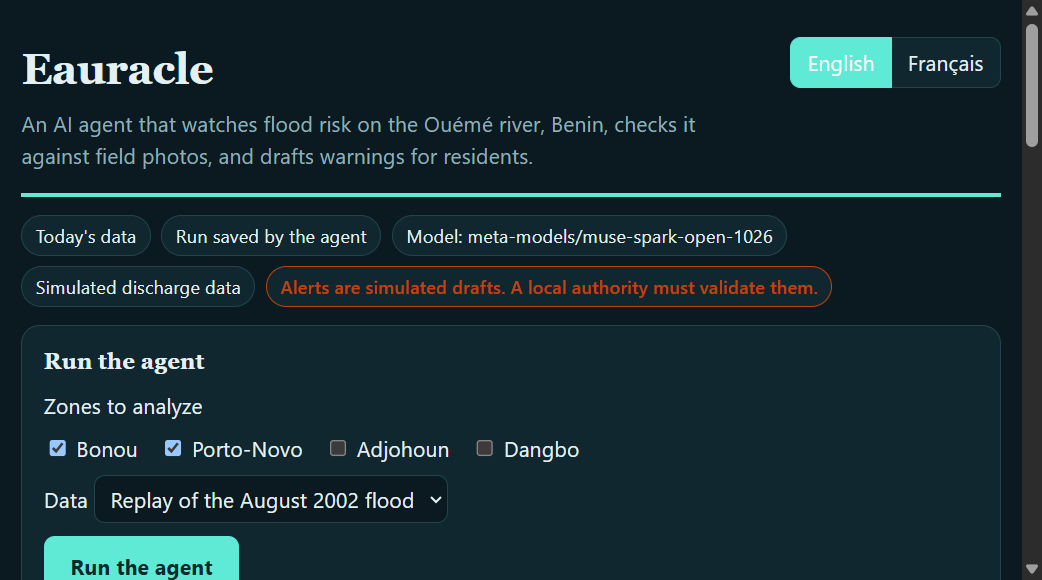
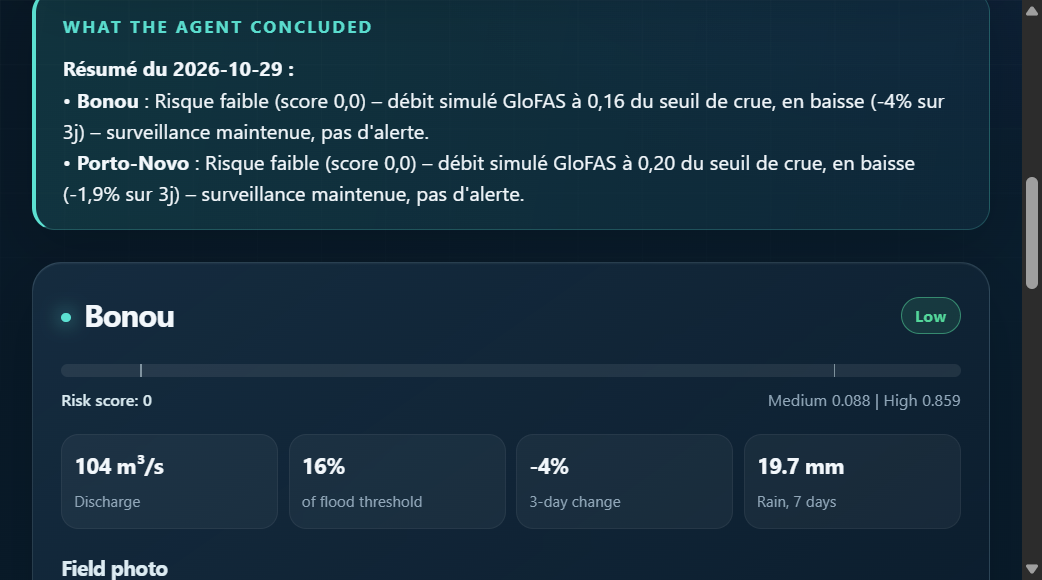
Elevate demo dashboard with premium glass UI

diff --git a/app/index.html b/app/index.html
@@ -5,70 +5,58 @@
 <meta name="viewport" content="width=device-width, initial-scale=1">
 <title>Eauracle</title>
 <style>
-:root{--fond:#eef3f4;--carte:#fff;--encre:#0d2b33;--doux:#52707a;--bord:#cfdde1;--eau:#0f766e;
---n-faible:#2f855a;--n-moyen:#b7791f;--n-eleve:#c2410c;--n-crue_en_cours:#b42318;
---surEau:#fff;--a-vigilance:#b7791f;--a-alerte:#c2410c;--a-urgence:#b42318;color-scheme:light}
-@media(prefers-color-scheme:dark){:root{--fond:#0a1a20;--carte:#10272f;--encre:#e4f0f2;--doux:#8fb0b8;--bord:#23434d;--eau:#5eead4;--surEau:#062a2e;color-scheme:dark}}
+:root{--fond:#07131f;--carte:rgba(17,34,52,.67);--carte-forte:rgba(20,42,63,.86);--encre:#f2f7fb;--doux:#91a7b9;--bord:rgba(179,215,232,.16);--eau:#5ce1d2;--eau-fonce:#2eaaa8;
+--n-faible:#53d69a;--n-moyen:#f2c56b;--n-eleve:#ff9a67;--n-crue_en_cours:#ff6e7d;--surEau:#06161e;--a-vigilance:#f2c56b;--a-alerte:#ff9a67;--a-urgence:#ff6e7d;color-scheme:dark}
 *{box-sizing:border-box}
-body{margin:0;background:var(--fond);color:var(--encre);font:16px/1.5 system-ui,-apple-system,"Segoe UI",sans-serif}
-main{max-width:1100px;margin:0 auto;padding:20px 16px 60px}
-h1,h2,h3{font-family:Georgia,"Times New Roman",serif;margin:0;font-weight:700}
-h1{font-size:2rem;letter-spacing:-.01em}
-h2{font-size:1.35rem}h3{font-size:1.05rem;margin:0 0 8px}
-.entete{display:flex;flex-wrap:wrap;justify-content:space-between;gap:12px;align-items:flex-start;padding:8px 0 16px;border-bottom:3px solid var(--eau)}
-.entete p{margin:4px 0 0;color:var(--doux);max-width:60ch}
-.langues button{font:inherit;padding:6px 12px;border:1px solid var(--bord);background:var(--carte);color:var(--encre);cursor:pointer}
-.langues button:first-child{border-radius:8px 0 0 8px}.langues button:last-child{border-radius:0 8px 8px 0;border-left:0}
-.langues button[aria-pressed=true]{background:var(--eau);color:#fff;border-color:var(--eau)}
-button:focus-visible,summary:focus-visible{outline:3px solid var(--eau);outline-offset:2px}
-.bandeau{display:flex;flex-wrap:wrap;gap:8px;margin:14px 0}
-.etiq{padding:4px 10px;border-radius:999px;border:1px solid var(--bord);background:var(--carte);font-size:.86rem}
-.etiq.alerte{border-color:var(--a-alerte);color:var(--a-alerte);font-weight:600}
-.resume{background:var(--carte);border-left:5px solid var(--eau);padding:12px 16px;border-radius:0 10px 10px 0;margin:8px 0 22px}
-.grille{display:grid;grid-template-columns:repeat(auto-fit,minmax(min(100%,470px),1fr));gap:18px}
-.carte{background:var(--carte);border:1px solid var(--bord);border-radius:14px;padding:18px}
-.tete{display:flex;justify-content:space-between;align-items:center;gap:8px;margin-bottom:12px}
-.puce{--c:var(--doux);color:var(--c);background:color-mix(in srgb,var(--c) 14%,transparent);border:1px solid var(--c);padding:2px 10px;border-radius:999px;font-weight:600;font-size:.88rem;white-space:nowrap}
-.jauge{position:relative;height:22px;border-radius:11px;background:color-mix(in srgb,var(--doux) 22%,transparent);overflow:hidden}
-.jauge i{position:absolute;inset:0 auto 0 0;border-radius:11px}
-.jauge b{position:absolute;top:0;bottom:0;width:2px;background:var(--encre);opacity:.55}
-.legende{display:flex;justify-content:space-between;font-size:.82rem;color:var(--doux);margin:4px 0 12px}
-.mesures{display:grid;grid-template-columns:repeat(4,1fr);gap:8px;margin-bottom:14px}
-.mesures div{background:color-mix(in srgb,var(--doux) 10%,transparent);border-radius:8px;padding:8px}
-.mesures strong{display:block;font-size:1.1rem}.mesures span{font-size:.78rem;color:var(--doux)}
-.photo{display:grid;grid-template-columns:150px 1fr;gap:12px;margin:12px 0}
-.photo img,.vide{width:100%;aspect-ratio:4/3;object-fit:cover;border-radius:8px;background:color-mix(in srgb,var(--doux) 18%,transparent)}
-.vide{display:flex;align-items:center;justify-content:center;text-align:center;font-size:.8rem;color:var(--doux);padding:6px}
-.barre{height:10px;border-radius:5px;background:color-mix(in srgb,var(--doux) 22%,transparent);overflow:hidden;margin:4px 0 8px}
-.barre i{display:block;height:100%;background:var(--eau)}
-.petit{font-size:.84rem;color:var(--doux);margin:4px 0}
-ul.desc{margin:6px 0 0;padding-left:18px;font-size:.88rem}
-.alerte-msg{border:2px solid var(--c);border-radius:10px;padding:10px 12px;margin-top:10px}
-.alerte-msg p{margin:6px 0 0}
-.decision{font-size:.9rem;margin-top:10px;padding-top:10px;border-top:1px dashed var(--bord)}
-.chat{margin-top:26px}
-.onglets{display:flex;gap:6px;margin:10px 0}
-.onglets button{font:inherit;padding:6px 14px;border-radius:8px;border:1px solid var(--bord);background:var(--carte);color:var(--encre);cursor:pointer}
-.onglets button[aria-pressed=true]{background:var(--encre);color:var(--fond)}
-.fil{background:var(--carte);border:1px solid var(--bord);border-radius:14px;padding:16px;display:flex;flex-direction:column;gap:10px}
-.msg{max-width:78%;padding:9px 12px;border-radius:12px;font-size:.93rem}
-.msg small{display:block;color:var(--doux);margin-bottom:2px}
-.msg.agent{align-self:flex-start;background:color-mix(in srgb,var(--eau) 14%,transparent)}
-.msg.relais{align-self:flex-end;background:color-mix(in srgb,var(--doux) 18%,transparent)}
-.msg.sys{align-self:center;max-width:100%;font-size:.82rem;color:var(--doux);text-align:center}
-.msg img{width:220px;max-width:100%;border-radius:8px;display:block;margin-top:4px}
-details{margin-top:26px;background:var(--carte);border:1px solid var(--bord);border-radius:14px;padding:12px 16px}
-summary{cursor:pointer;font-weight:600}
-.ligne{display:grid;grid-template-columns:34px 170px 1fr;gap:8px;padding:6px 0;border-top:1px solid var(--bord);font-size:.8rem}
-.ligne code{word-break:break-word;color:var(--doux)}
-footer{margin-top:26px;font-size:.84rem;color:var(--doux);max-width:80ch}
-.commande{background:var(--carte);border:1px solid var(--bord);border-radius:14px;padding:14px 16px;margin:0 0 22px}
-.commande .choix{display:flex;flex-wrap:wrap;gap:6px 16px;margin:8px 0}
-.commande select{font:inherit;padding:6px 8px;border-radius:8px;border:1px solid var(--bord);background:var(--fond);color:var(--encre);max-width:100%}
-button.lancer{background:var(--eau);color:var(--surEau);border:0;border-radius:8px;padding:10px 20px;font:inherit;font-weight:700;cursor:pointer;margin-top:10px}
-button.lancer:disabled{opacity:.6;cursor:wait}
-.erreur{border:2px solid var(--n-crue_en_cours);color:var(--n-crue_en_cours);border-radius:10px;padding:8px 12px;margin-top:10px;font-size:.9rem}
-@media(max-width:560px){.mesures{grid-template-columns:repeat(2,1fr)}.photo{grid-template-columns:1fr}.ligne{grid-template-columns:28px 1fr}.ligne code{grid-column:1/-1}.msg{max-width:92%}}
+html{min-height:100%;background:var(--fond)}
+body{min-height:100vh;margin:0;background:radial-gradient(circle at 8% 0%,rgba(54,190,192,.18),transparent 30rem),radial-gradient(circle at 92% 10%,rgba(76,111,255,.16),transparent 34rem),linear-gradient(145deg,#07131f 0%,#091d2d 52%,#07111d 100%);color:var(--encre);font:15px/1.55 -apple-system,BlinkMacSystemFont,"SF Pro Display","Segoe UI",sans-serif;letter-spacing:.005em}
+body:before{content:"";position:fixed;inset:0;pointer-events:none;background-image:linear-gradient(rgba(255,255,255,.018) 1px,transparent 1px),linear-gradient(90deg,rgba(255,255,255,.018) 1px,transparent 1px);background-size:48px 48px;mask-image:linear-gradient(to bottom,black,transparent 75%)}
+main{max-width:1240px;margin:0 auto;padding:30px 24px 70px;position:relative}
+h1,h2,h3{margin:0;font-weight:650;letter-spacing:-.035em}
+h1{font-size:clamp(2.2rem,4vw,3.8rem);line-height:1.02;background:linear-gradient(110deg,#fff 20%,#9ef4e7 72%,#77b9ff);-webkit-background-clip:text;background-clip:text;color:transparent}
+h2{font-size:1.45rem}h3{font-size:1rem;margin:0 0 10px;color:#dcebf2}
+.entete{display:flex;flex-wrap:wrap;justify-content:space-between;gap:20px;align-items:flex-start;padding:22px 24px 26px;border:1px solid var(--bord);border-radius:28px;background:linear-gradient(135deg,rgba(24,56,78,.75),rgba(8,27,43,.52));box-shadow:0 24px 80px rgba(0,0,0,.24),inset 0 1px rgba(255,255,255,.09);backdrop-filter:blur(24px);-webkit-backdrop-filter:blur(24px)}
+.entete:after{content:"";display:block;width:90px;height:90px;position:absolute;right:13%;top:5px;border-radius:50%;background:rgba(92,225,210,.17);filter:blur(22px);pointer-events:none}
+.entete p{margin:10px 0 0;color:#a8bdca;max-width:58ch;font-size:1rem}
+.langues{display:flex;gap:0;position:relative;z-index:1}
+.langues button{font:inherit;font-size:.82rem;padding:8px 13px;border:1px solid var(--bord);background:rgba(255,255,255,.045);color:var(--doux);cursor:pointer;transition:.2s}
+.langues button:first-child{border-radius:12px 0 0 12px}.langues button:last-child{border-radius:0 12px 12px 0;border-left:0}
+.langues button[aria-pressed=true]{background:var(--eau);color:#06212b;border-color:var(--eau);font-weight:700}
+button:focus-visible,summary:focus-visible{outline:2px solid var(--eau);outline-offset:3px}
+.bandeau{display:flex;flex-wrap:wrap;gap:9px;margin:18px 0}
+.etiq{padding:6px 11px;border-radius:999px;border:1px solid var(--bord);background:rgba(255,255,255,.045);color:#b8cbd5;font-size:.77rem;backdrop-filter:blur(10px)}
+.etiq:before{content:"•";color:var(--eau);margin-right:6px}.etiq.alerte{border-color:rgba(255,154,103,.42);color:#ffc19e}.etiq.alerte:before{color:var(--a-alerte)}
+.resume{background:linear-gradient(100deg,rgba(37,114,117,.31),rgba(19,51,70,.46));border:1px solid rgba(92,225,210,.22);border-left:3px solid var(--eau);padding:16px 20px;border-radius:17px;margin:8px 0 24px;box-shadow:0 12px 40px rgba(0,0,0,.15)}
+.resume h3{color:var(--eau);font-size:.8rem;text-transform:uppercase;letter-spacing:.13em}
+.grille{display:grid;grid-template-columns:repeat(auto-fit,minmax(min(100%,500px),1fr));gap:18px}
+.carte,.commande,.fil,details{background:linear-gradient(145deg,rgba(25,49,70,.77),rgba(11,28,44,.64));border:1px solid var(--bord);border-radius:22px;padding:21px;box-shadow:0 18px 55px rgba(0,0,0,.2),inset 0 1px rgba(255,255,255,.045);backdrop-filter:blur(22px);-webkit-backdrop-filter:blur(22px)}
+.carte{transition:transform .25s ease,box-shadow .25s ease,border-color .25s ease}.carte:hover{transform:translateY(-3px);border-color:rgba(92,225,210,.3);box-shadow:0 24px 65px rgba(0,0,0,.3),0 0 0 1px rgba(92,225,210,.06)}
+.tete{display:flex;justify-content:space-between;align-items:center;gap:8px;margin-bottom:18px}
+.tete h2:before{content:"";display:inline-block;width:7px;height:7px;border-radius:50%;background:var(--eau);box-shadow:0 0 14px var(--eau);vertical-align:middle;margin:0 10px 3px 0}
+.puce{--c:var(--doux);color:var(--c);background:color-mix(in srgb,var(--c) 12%,transparent);border:1px solid color-mix(in srgb,var(--c) 52%,transparent);padding:4px 10px;border-radius:999px;font-weight:650;font-size:.76rem;white-space:nowrap}
+.jauge{position:relative;height:10px;border-radius:10px;background:rgba(255,255,255,.08);overflow:hidden;margin-top:4px}
+.jauge i{position:absolute;inset:0 auto 0 0;border-radius:10px;box-shadow:0 0 16px currentColor;animation:montee .8s ease-out}
+.jauge b{position:absolute;top:-3px;bottom:-3px;width:1px;background:#d9eef4;opacity:.5}
+@keyframes montee{from{width:0!important}}
+.legende{display:flex;justify-content:space-between;font-size:.75rem;color:var(--doux);margin:8px 0 16px}
+.legende span:first-child{color:#d8e9ef;font-weight:600}
+.mesures{display:grid;grid-template-columns:repeat(4,1fr);gap:8px;margin-bottom:17px}
+.mesures div{background:rgba(255,255,255,.045);border:1px solid rgba(255,255,255,.055);border-radius:13px;padding:10px 9px}
+.mesures strong{display:block;font-size:1.05rem;letter-spacing:-.03em}.mesures span{font-size:.7rem;color:var(--doux)}
+.photo{display:grid;grid-template-columns:170px 1fr;gap:15px;margin:13px 0}
+.photo img,.vide{width:100%;aspect-ratio:4/3;object-fit:cover;border-radius:14px;background:rgba(255,255,255,.06);border:1px solid var(--bord)}
+.photo img{box-shadow:0 10px 25px rgba(0,0,0,.25)}.vide{display:flex;align-items:center;justify-content:center;text-align:center;font-size:.78rem;color:var(--doux);padding:6px}
+.barre{height:7px;border-radius:7px;background:rgba(255,255,255,.1);overflow:hidden;margin:6px 0 9px}.barre i{display:block;height:100%;background:linear-gradient(90deg,#2caaa8,var(--eau));border-radius:7px}
+.petit{font-size:.78rem;color:var(--doux);margin:5px 0}ul.desc{margin:7px 0 0;padding-left:18px;font-size:.8rem;color:#c5d6dd}
+.alerte-msg{border:1px solid color-mix(in srgb,var(--c) 64%,transparent);background:color-mix(in srgb,var(--c) 10%,transparent);border-radius:14px;padding:13px 14px;margin-top:12px}.alerte-msg p{margin:7px 0 0;color:#f2f7f8}
+.decision{font-size:.82rem;color:#b9cdd5;margin-top:14px;padding-top:13px;border-top:1px solid rgba(255,255,255,.1)}
+.chat{margin-top:30px}.chat h2{margin-bottom:4px}.onglets{display:flex;gap:7px;margin:13px 0}.onglets button{font:inherit;font-size:.8rem;padding:7px 14px;border-radius:10px;border:1px solid var(--bord);background:rgba(255,255,255,.04);color:var(--doux);cursor:pointer}.onglets button[aria-pressed=true]{background:rgba(92,225,210,.16);border-color:rgba(92,225,210,.5);color:var(--eau)}
+.fil{display:flex;flex-direction:column;gap:10px;min-height:120px}.msg{max-width:78%;padding:10px 13px;border-radius:15px;font-size:.84rem}.msg small{display:block;color:var(--eau);margin-bottom:3px;font-size:.7rem;font-weight:650;text-transform:uppercase;letter-spacing:.08em}.msg.agent{align-self:flex-start;background:rgba(92,225,210,.1);border:1px solid rgba(92,225,210,.14)}.msg.relais{align-self:flex-end;background:rgba(161,187,203,.1);border:1px solid rgba(161,187,203,.12)}.msg.sys{align-self:center;max-width:100%;font-size:.75rem;color:var(--doux);text-align:center}.msg img{width:220px;max-width:100%;border-radius:10px;display:block;margin-top:6px}
+details{margin-top:26px;padding:15px 19px}summary{cursor:pointer;font-weight:650;color:#d3e4ea}.ligne{display:grid;grid-template-columns:34px 170px 1fr;gap:8px;padding:8px 0;border-top:1px solid rgba(255,255,255,.08);font-size:.73rem}.ligne code{word-break:break-word;color:var(--doux)}
+footer{margin-top:28px;font-size:.75rem;color:#718b9b;max-width:80ch}.commande{margin:0 0 24px;padding:21px}.commande h3{font-size:1.12rem}.commande .choix{display:flex;flex-wrap:wrap;gap:8px 16px;margin:12px 0 17px}.commande label{color:#c6d8df;font-size:.84rem}.commande input{accent-color:var(--eau)}.commande select{font:inherit;font-size:.84rem;padding:8px 10px;border-radius:10px;border:1px solid var(--bord);background:rgba(255,255,255,.06);color:var(--encre);max-width:100%;margin-left:7px}
+button.lancer{background:linear-gradient(110deg,#5ce1d2,#62bff5);color:#06202a;border:0;border-radius:12px;padding:11px 20px;font:inherit;font-size:.84rem;font-weight:750;cursor:pointer;margin-top:12px;box-shadow:0 8px 22px rgba(65,205,202,.22);transition:transform .2s,box-shadow .2s}button.lancer:hover{transform:translateY(-2px);box-shadow:0 12px 28px rgba(65,205,202,.34)}button.lancer:disabled{opacity:.6;cursor:wait;transform:none}
+.erreur{border:1px solid rgba(255,110,125,.55);background:rgba(255,110,125,.1);color:#ffb1b8;border-radius:12px;padding:9px 12px;margin-top:12px;font-size:.8rem}
+@media(max-width:650px){main{padding:16px 13px 50px}.entete{padding:19px;border-radius:22px}.mesures{grid-template-columns:repeat(2,1fr)}.photo{grid-template-columns:1fr}.ligne{grid-template-columns:28px 1fr}.ligne code{grid-column:1/-1}.msg{max-width:92%}.carte,.commande,.fil,details{border-radius:18px;padding:17px}}
 </style>
 </head>
 <body>
